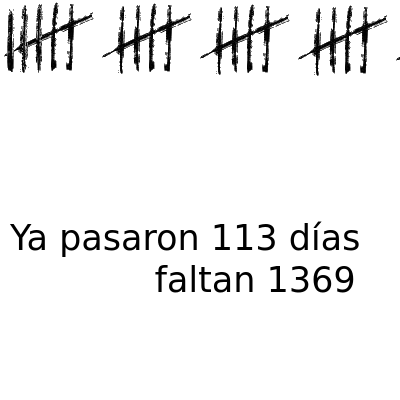
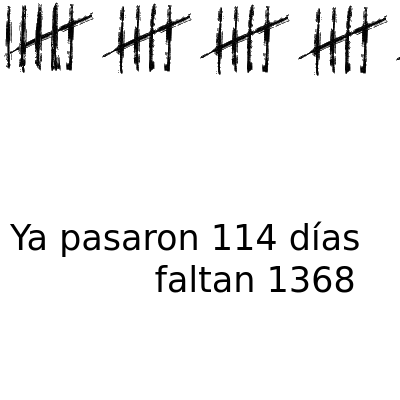
deploy: 28882f26f23b9f53dac6c4991168e610486d0e44

Changed region(s): [[0.0, 0.0, 0.15, 0.18], [0.63, 0.54, 0.69, 0.63], [0.84, 0.66, 0.9, 0.75]]

diff --git a/index.html b/index.html
@@ -3,19 +3,19 @@
   <head>
     <meta charset='utf-8'>
     <meta http-equiv='X-UA-Compatible' content='IE=edge'>
-    <title>Ya pasaron 113 días y faltan 1369</title>
-    <meta name="description" content="Ya pasaron 113 días y faltan 1369">
-    <meta itemprop="name" content="Ya pasaron 113 días y faltan 1369">
-    <meta itemprop="description" content="Ya pasaron 113 días y faltan 1369">
+    <title>Ya pasaron 114 días y faltan 1368</title>
+    <meta name="description" content="Ya pasaron 114 días y faltan 1368">
+    <meta itemprop="name" content="Ya pasaron 114 días y faltan 1368">
+    <meta itemprop="description" content="Ya pasaron 114 días y faltan 1368">
     <meta name="twitter:card" content="summary">
-    <meta name="twitter:title" content="Ya pasaron 113 días y faltan 1369">
-    <meta name="twitter:description" content="Ya pasaron 113 días y faltan 1369">
+    <meta name="twitter:title" content="Ya pasaron 114 días y faltan 1368">
+    <meta name="twitter:description" content="Ya pasaron 114 días y faltan 1368">
     <meta name="twitter:creator" content="@FloriusWasTaken">
     <meta name="twitter:image" content="https://pasaron.meme.ar/capture.png">
-    <meta property="og:title" content="Ya pasaron 113 días y faltan 1369">
-    <meta property="og:description" content="Ya pasaron 113 días y faltan 1369">
+    <meta property="og:title" content="Ya pasaron 114 días y faltan 1368">
+    <meta property="og:description" content="Ya pasaron 114 días y faltan 1368">
     <meta property="og:url" content="https://pasaron.meme.ar">
-    <meta property="og:site_name" content="Ya pasaron 113 días y faltan 1369">
+    <meta property="og:site_name" content="Ya pasaron 114 días y faltan 1368">
     <meta property="og:type" content="website">
     <meta property="og:image" content="https://pasaron.meme.ar/capture.png">
     <meta name="theme-color" content="#dc143c">
@@ -69,18 +69,18 @@
         padding: 0;
       }
     </style>
-    <title>Ya pasaron 113 días y faltan 1369</title>
+    <title>Ya pasaron 114 días y faltan 1368</title>
   </head>
   <body>
     <div id="main">
       <img src="img/5.png"/><img src="img/5.png"/><img src="img/5.png"/><img src="img/5.png"/><img src="img/5.png"/><img src="img/5.png"/><img src="img/5.png"/><img src="img/5.png"/><img src="img/5.png"/><img src="img/5.png"/><img src="img/5.png"/><img src="img/5.png"/><img src="img/5.png"/><img src="img/5.png"/><img src="img/5.png"/><img src="img/5.png"/><img src="img/5.png"/><img src="img/5.png"/><img src="img/5.png"/><img src="img/5.png"/><img src="img/5.png"/><img src="img/5.png"/>
       
-        <img src="img/3.png"/>
+        <img src="img/4.png"/>
       
     </div>
     <footer id="footer">
       <marquee id="marquee" class="is-vertical-align">
-        Ya pasaron 113 días y faltan 1369
+        Ya pasaron 114 días y faltan 1368
       </marquee>
       <ul>
         <li>
